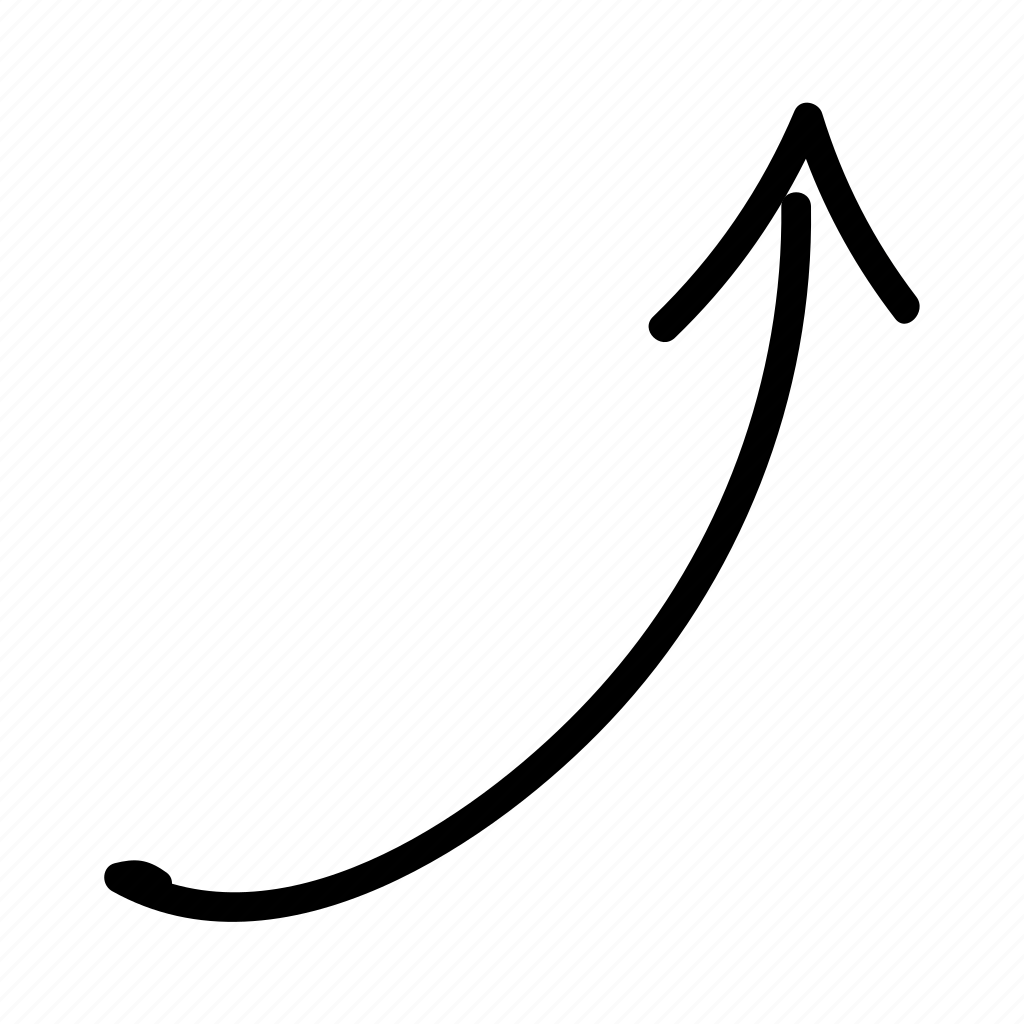
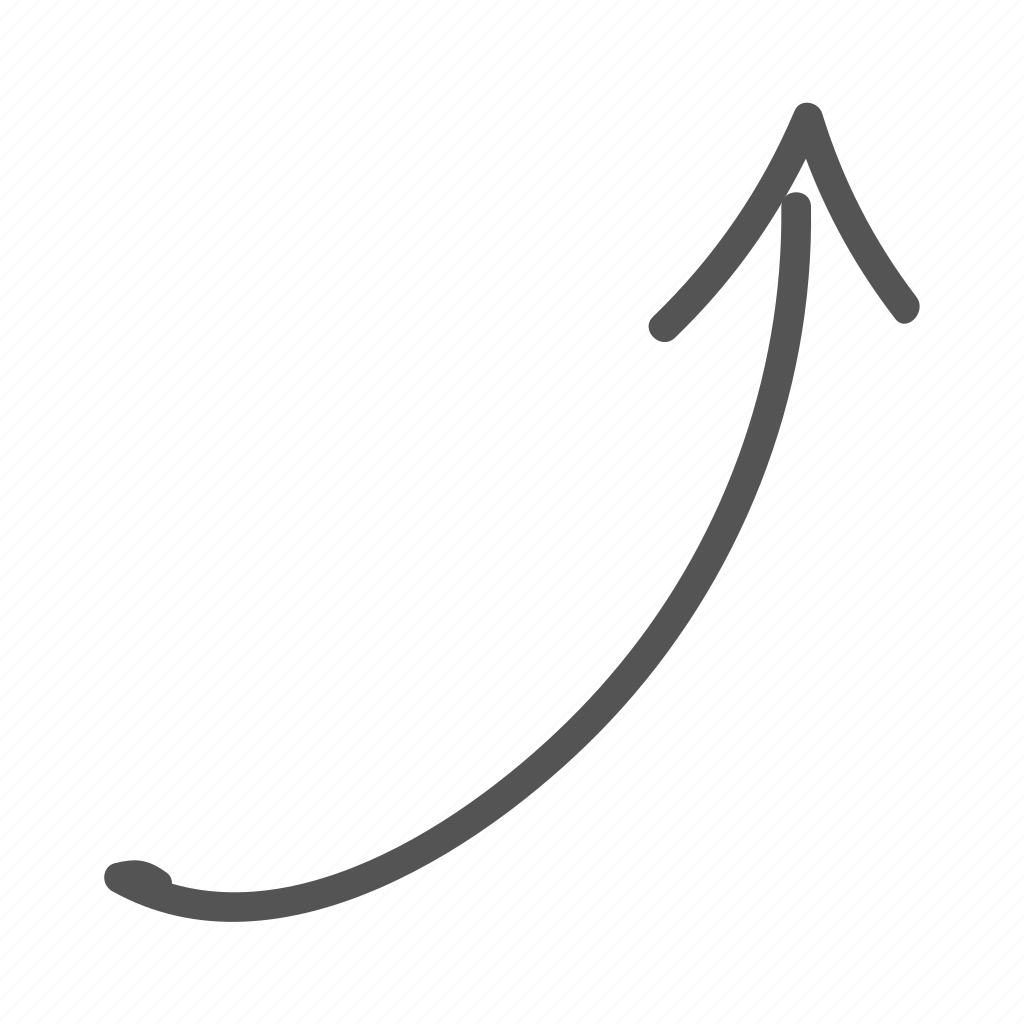
fix arrow

Changed region(s): [[0.0938, 0.0938, 0.9062, 0.9062]]

diff --git a/src/components/Profile/Profile.jsx b/src/components/Profile/Profile.jsx
@@ -4,31 +4,40 @@ import { ThemeContext } from '../../context/Theme';
 import devIcon from './Coding.svg';
 import devIcon2 from './Coding2.svg';
 import arrow from './arrow.png';
+import arrow2 from './arrow2.png';
 
 const Profile = () => {
 	const [{ theme, toggleTheme }] = useContext(ThemeContext);
 	console.log(theme);
 	return (
-		<div className="profile-container">
-			<div className="profile-content">
-				<h1 className="profile-title">
-					Hi, I am
-					<span className="name"> Joel Perez.</span>
-				</h1>
-				<h2 className="profile-description">Full Stack Engineer</h2>
-				<p className="profile-info">
-					I am a former scientist, part-time musician, and Lego enthusiast that
-					enjoys expressing my creative side through various outlets. As a
-					developer, I utilize this passion and creativity to bring things to
-					life that will have a positive impact in the world.
-				</p>
+		<>
+			<div className="profile-container">
+				<div className="profile-content">
+					<h1 className="profile-title">
+						Hi, I am
+						<span className="name"> Joel Perez.</span>
+					</h1>
+					<h2 className="profile-description">Full Stack Engineer</h2>
+					<p className="profile-info">
+						I am a former scientist, part-time musician, and Lego enthusiast
+						that enjoys expressing my creative side through various outlets. As
+						a developer, I utilize this passion and creativity to bring things
+						to life that will have a positive impact in the world.
+					</p>
+				</div>
+				<div>
+					<img src={theme === 'light' ? devIcon : devIcon2} alt="" />
+				</div>
 			</div>
-			<div>
-				<img src={theme === 'light' ? devIcon : devIcon2} alt="" />
+			<div className="arrow-container">
+				<img
+					className="arrow"
+					src={theme === 'light' ? arrow : arrow2}
+					alt=""
+				/>
+				<p className="checkout">Check out my projects</p>
 			</div>
-			<p className="checkout">Check out my projects</p>
-			<img className="arrow" src={arrow} alt="" />
-		</div>
+		</>
 	);
 };
 

diff --git a/src/data/Data.js b/src/data/Data.js
@@ -9,6 +9,7 @@ export const data = [
 			'A user friendly e-commerce site with for all of your skateboarding needs. Detailed product descriptions and high-res photos, allow you to make informed decisions about each product. A personal project designed to learn Redux Toolkit and Stripe API integration.',
 		stack: ['MongoDB', 'Express.js', 'React.js', 'Node.js', 'Sass'],
 		site: 'https://lostskateshop.onrender.com/',
+		gh: 'https://github.com/jpswt/LostSkateShop',
 	},
 	{
 		id: 2,
@@ -16,7 +17,7 @@ export const data = [
 		color: 'blue',
 		title: 'Note For Note',
 		description:
-			'An e-commerce site for all of your skateboarding needs. With easy navigation, product details and high-res photos, we allow you to make informed decisions about each product. It also offers secure payment and hassle-free checkout process.This was a personal project to work with Redux Toolkit and the Stripe API.',
+			'Showcase your musical journey, share your insights, connect and collaborate with fellow artists in a vibrant and engaging platform designed exclusively for the guitarist community. It is a Medium.com theme inspired application built to learn MongoDB integrate Multer/Firebase Storage.',
 		stack: [
 			'MongoDB',
 			'Express.js',
@@ -26,6 +27,7 @@ export const data = [
 			'TailwindCSS',
 		],
 		site: 'https://notefornote.onrender.com/',
+		gh: 'https://github.com/jpswt/NoteForNote',
 	},
 	{
 		id: 3,
@@ -41,7 +43,8 @@ export const data = [
 			'Material UI',
 			'CSS',
 		],
-		site: 'https://lostskateshop.onrender.com/',
+		site: 'https://lamp-app.onrender.com/',
+		gh: 'https://github.com/jpswt/LAMP_APP',
 	},
 	{
 		id: 4,
@@ -50,6 +53,7 @@ export const data = [
 		title: 'Rugged Beard',
 		description: 'Barber Site',
 		stack: ['HTML', 'CSS', 'Javascript'],
-		site: 'https://lostskateshop.onrender.com/',
+		site: 'https://jpswt.github.io/BarberShop-CheckPoint/',
+		gh: 'https://github.com/jpswt/BarberShop-CheckPoint',
 	},
 ];

diff --git a/src/components/Profile/Profile.css b/src/components/Profile/Profile.css
@@ -39,19 +39,27 @@
 	margin-top: 0;
 }
 
+.arrow-container {
+	position: absolute;
+	width: 100%;
+	display: flex;
+	top: 88%;
+	left: 18%;
+}
+
 .checkout {
 	font-family: 'Gloria Hallelujah';
 	font-size: 1.4rem;
-	position: absolute;
-	top: 540px;
-	left: 340px;
+	top: 0;
+	left: 27%;
+	/* position: absolute; */
 }
 
 .arrow {
-	width: 220px;
+	width: 15%;
 	color: var(--clr-c);
 	transform: scale(-1, -1);
-	position: absolute;
-	top: 550px;
-	left: 120px;
+	top: 0;
+	left: 18%;
+	/* position: absolute; */
 }

diff --git a/src/App.css b/src/App.css
@@ -14,7 +14,7 @@ body {
 .light {
 	--clr-bg: hsl(0, 0%, 95%);
 	--clr-bg-alt: hsl(0, 0%, 100%);
-	--clr-font: hsl(0, 0%, 33%);
+	--clr-font: #545454;
 	--clr-font-alt: hsl(0, 0%, 27%);
 	--clr-primary: #005b96;
 	--clr-card: hsla(203, 77%, 80%, 0.8);
@@ -25,7 +25,7 @@ body {
 .dark {
 	--clr-bg: hsl(231, 27%, 23%);
 	--clr-bg-alt: hsl(231, 29%, 23%);
-	--clr-font: hsl(240, 36%, 90%);
+	--clr-font: #dcdcef;
 	--clr-font-alt: hsl(240, 67%, 91%);
 	--clr-primary: #8585b7;
 	--clr-card: hsla(234, 76%, 80%, 0.8);

diff --git a/src/components/Projects/Projects.css b/src/components/Projects/Projects.css
@@ -9,7 +9,6 @@
 	font-size: 2.6rem;
 	position: relative;
 	padding-top: 80px;
-	font-family: 'Gloria Hallelujah';
 }
 
 .project-title::after {
